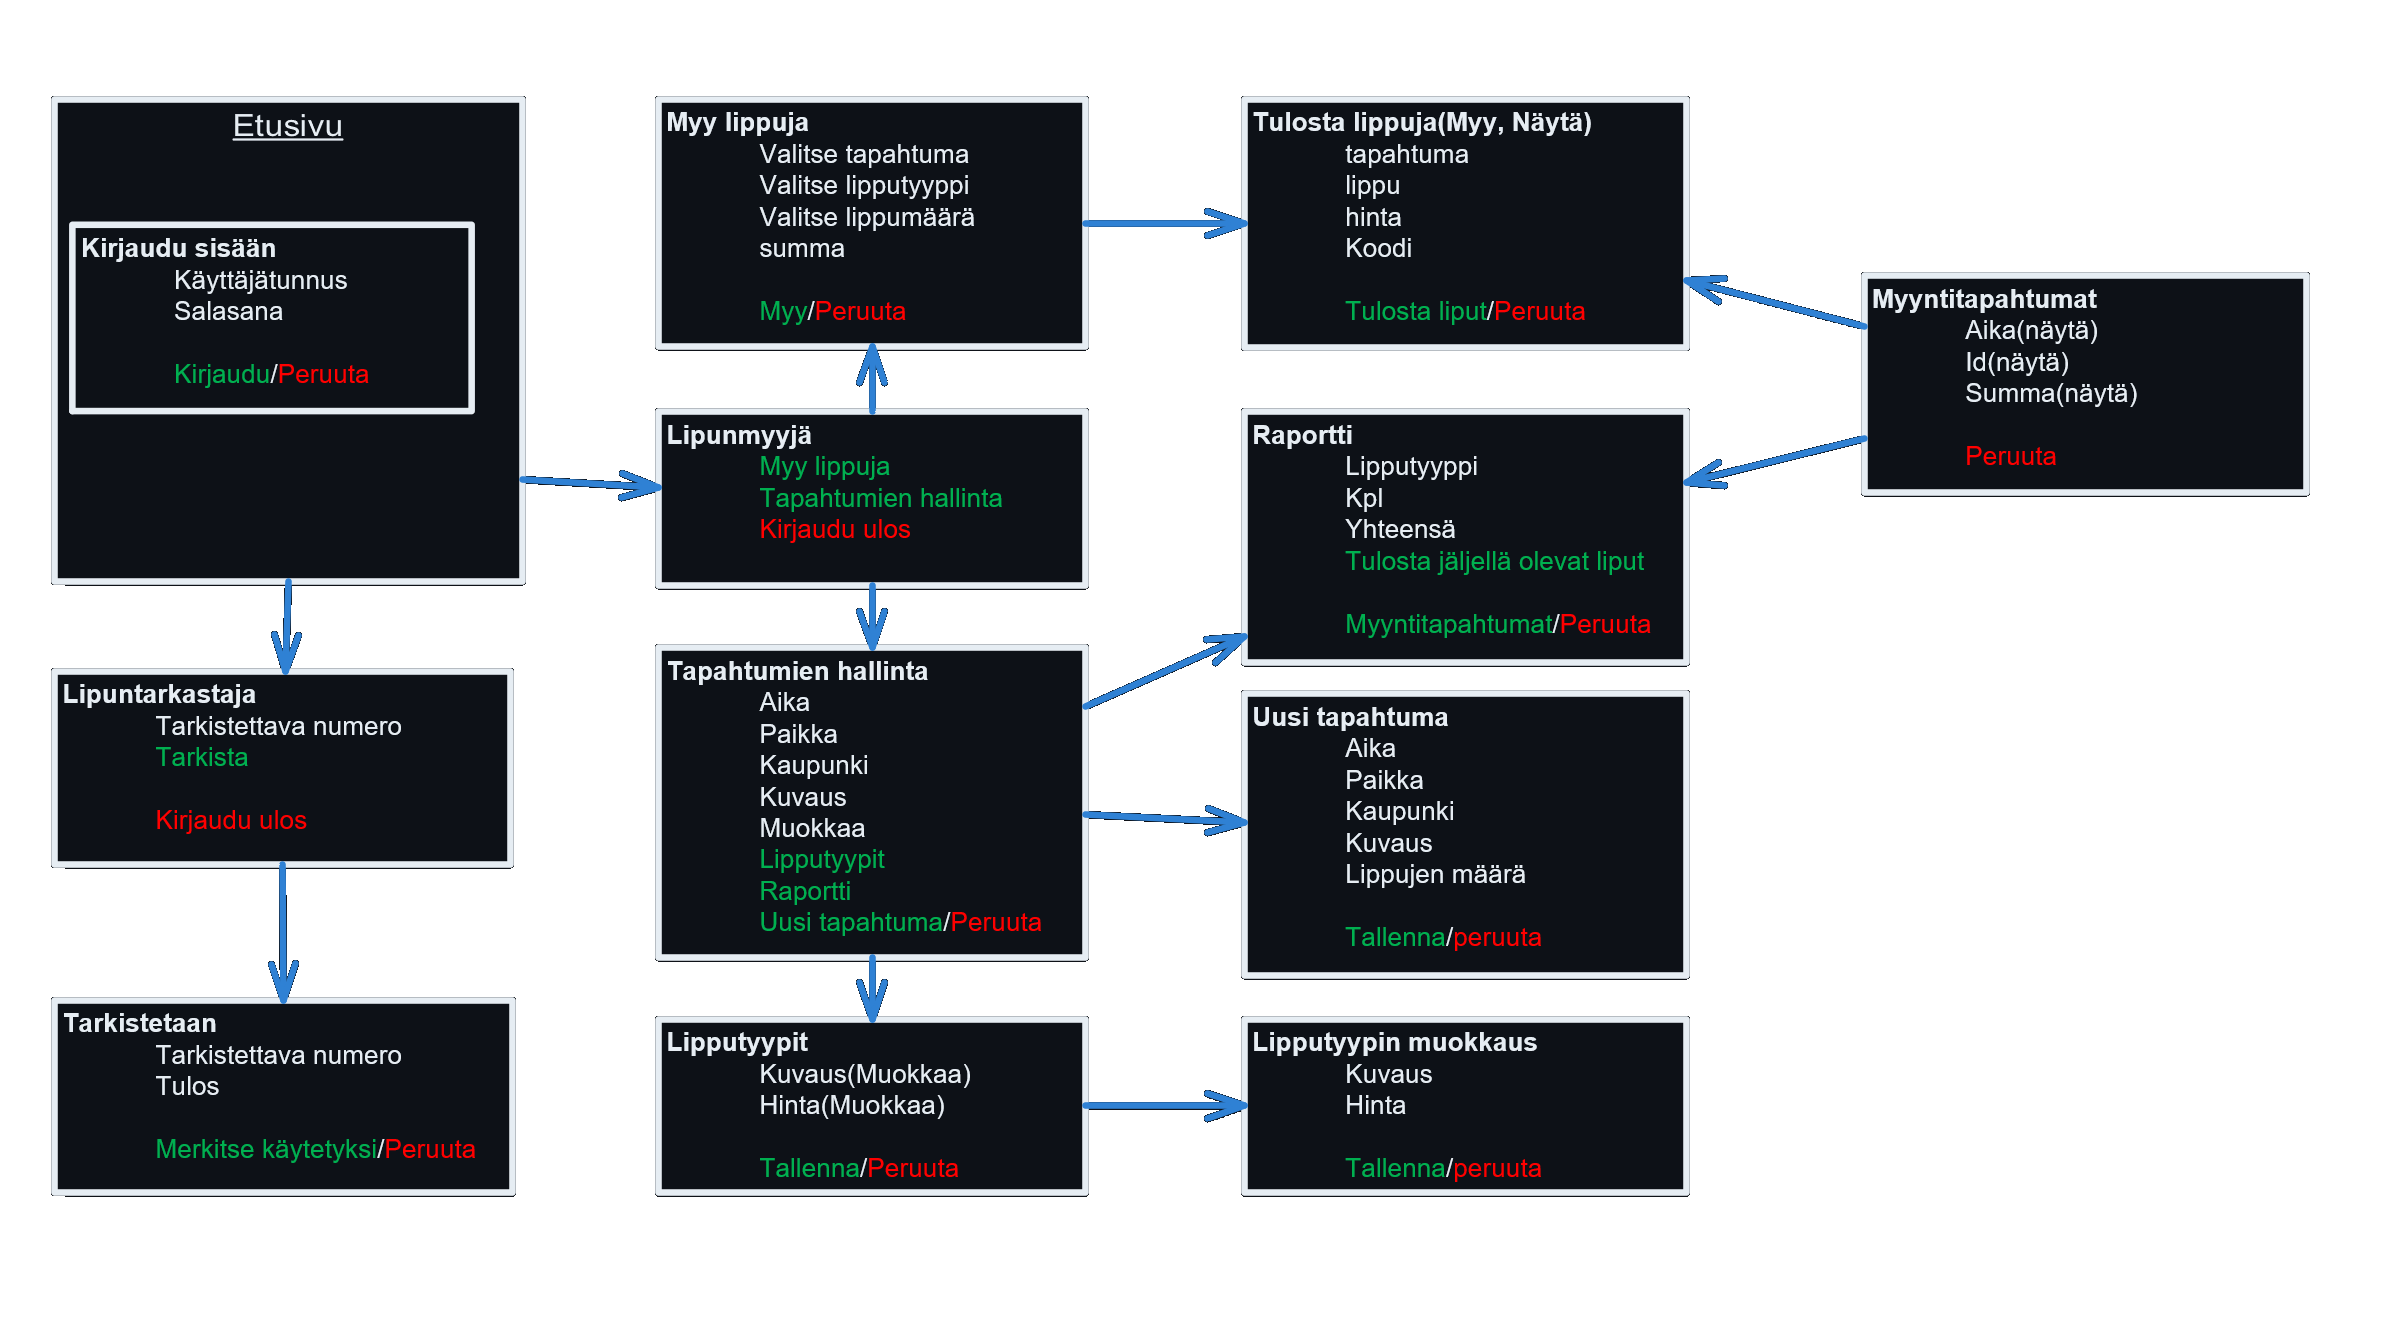
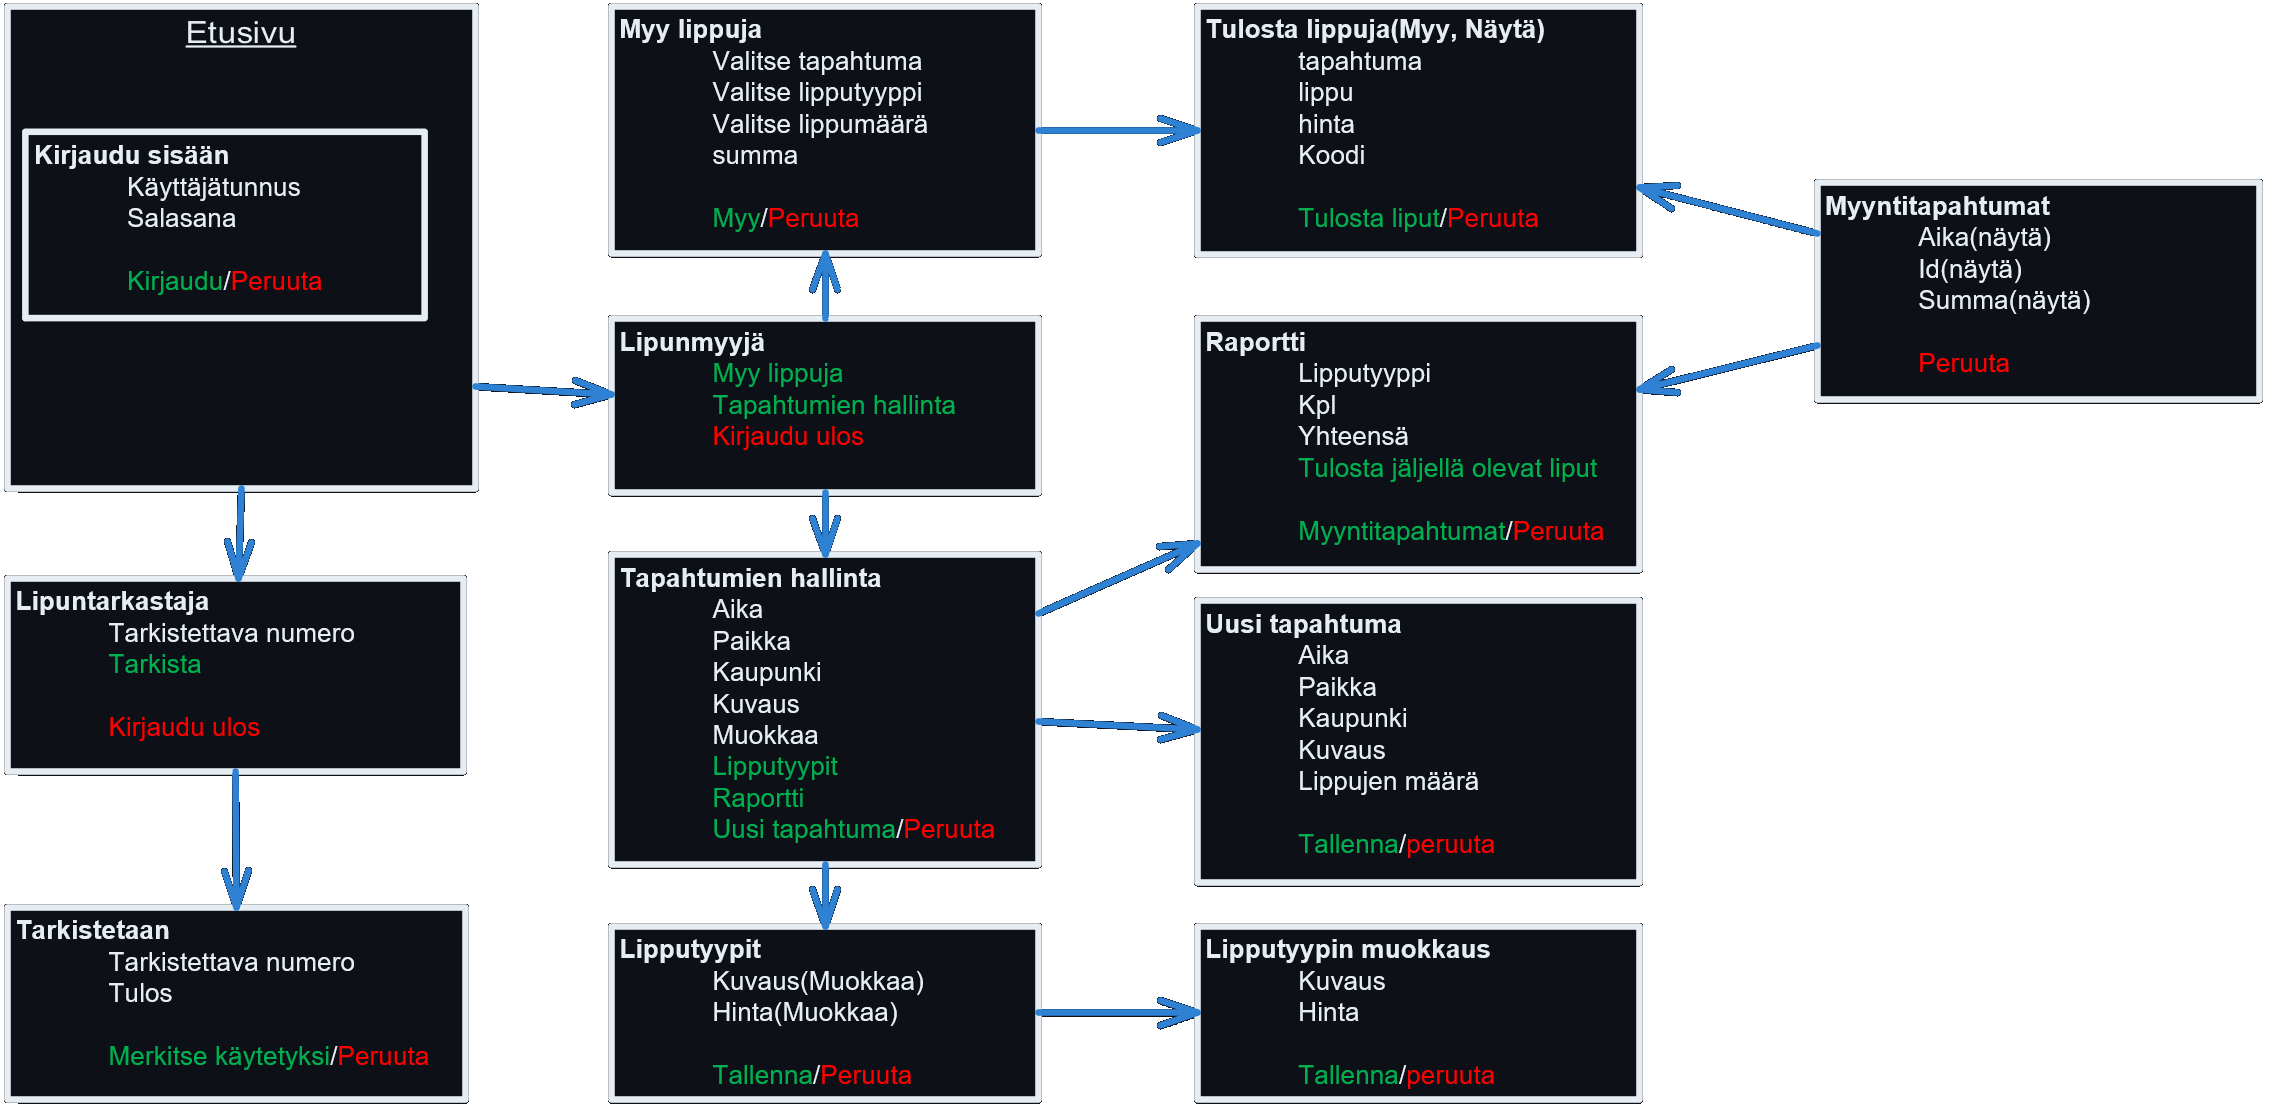
muutettu näyttökuvaa

diff --git a/README.md b/README.md
@@ -73,7 +73,8 @@ Järjestelmän kehittämisessä käytetään Spring Bootia, ohjelmointikielenä 
 Käyttöliittymään kirjautuessa on olennaista kirjautuuko järjestelmään lipunmyyjänä vai lipuntarkastajana. Admin-oikeuksia käytetään järjestelmän kehittämiseen ja muutosten tekoon. 
 
 <!--![Katastrofi ajalta 2023 09 07 13 47 45](https://github.com/NicklasHH/TicketGuru/assets/117033936/b0fca7bb-b075-429f-973a-4c63afdf7641) (vanha kuva)--> 
-![TicketGuruIsompi](https://github.com/NicklasHH/TicketGuru/assets/117033936/738b8458-4bc9-46d8-94f4-5c8da60c991e)
+![](https://github.com/NicklasHH/TicketGuru/blob/master/TicketGuruN%C3%A4ytt%C3%B6kuva.png)
+Voit avata kuvan isommaksi klikkaamalla sitä
 
 ## Tietokanta
 
